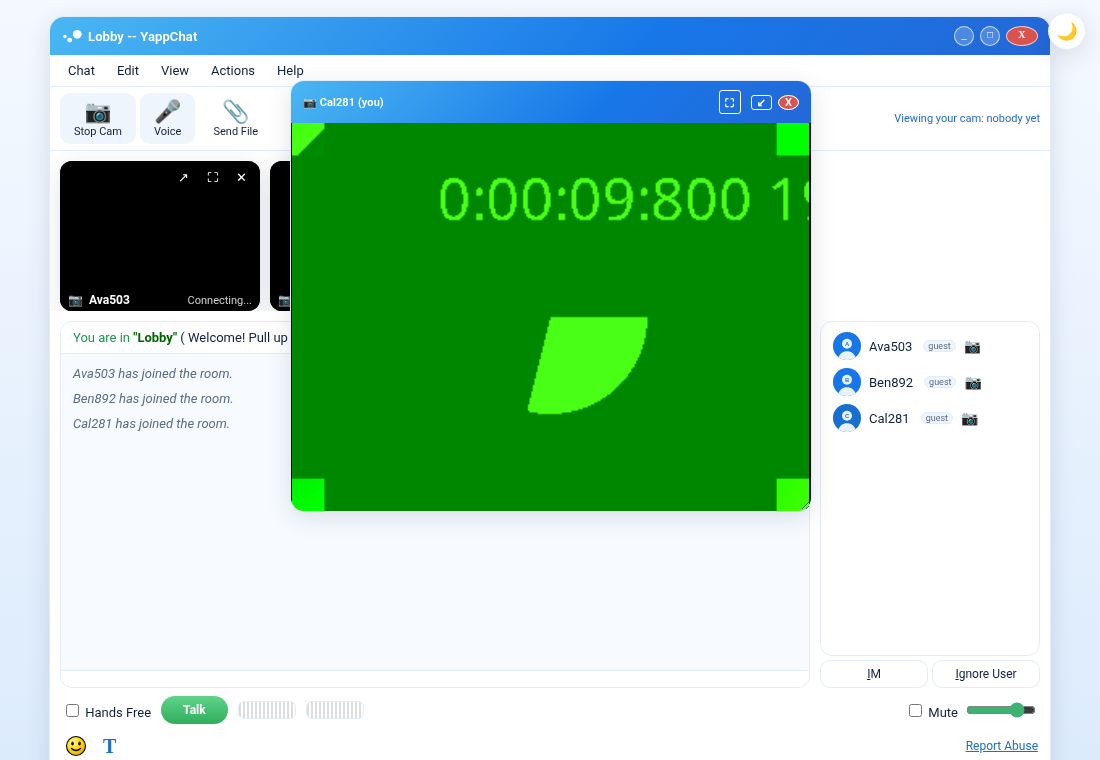
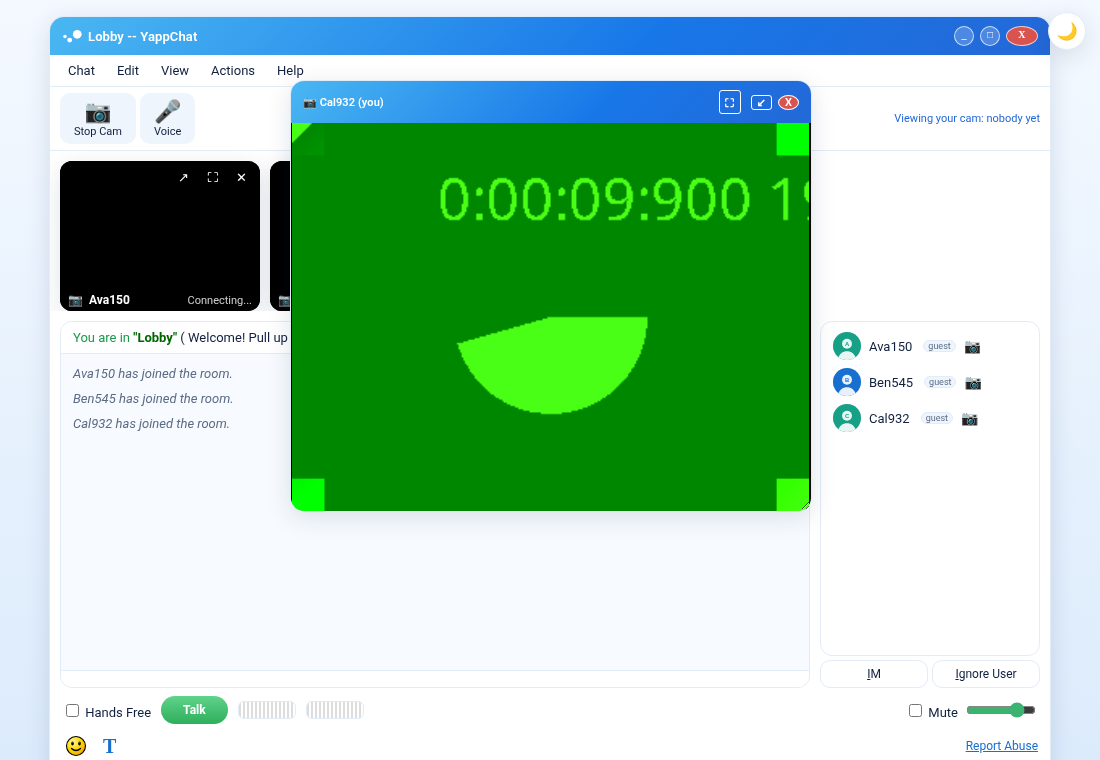
Remove Send File and Chat toolbar buttons

diff --git a/public/rooms.html b/public/rooms.html
@@ -112,7 +112,7 @@ html.dark .room{color:#8fc8ff!important}
  <div>Help<div class="dd"><div id="mHelp">How to Use Voice &amp; Webcam</div><div id="mAbout">About YappChat</div></div></div>
 </div>
 <div id="tools"><button class="tbtn" id="cam" title="Share My Webcam"><span>&#128247;</span>Webcam</button><button class="tbtn" id="vbtn" title="Show/hide voice controls"><span>&#127908;</span>Voice</button>
-<button class="tbtn" disabled title="Send File - coming soon"><span>&#128206;</span>Send File</button><button class="tbtn" id="cbtn" title="Rooms"><span>&#128172;</span>Chat</button><div id="viewers"></div></div>
+<div id="viewers"></div></div>
 <div id="camstrip"></div>
 <div id="main"><div id="lpane"><div id="topic"></div><div id="log"></div><div id="typing"></div></div>
 <div id="mpane"><div id="mem"></div><div id="mbtns"><button id="bIm" title="Send a private message"><u>I</u>M</button><button id="bIgn"><u>I</u>gnore User</button></div></div></div>
@@ -183,7 +183,6 @@ $('mKick').onclick=()=>{if(!owner||!acct||owner.toLowerCase()!=acct.toLowerCase(
 S.on('topic',t=>{$('topic').querySelector('i').textContent='( '+t+' )'});
 S.on('kicked',({room:r,by})=>{alert('You were kicked from '+r+' by '+by+'.')});
 $('mLeave').onclick=leave;$('wx').onclick=leave;$('mJoin').onclick=()=>{const r=prompt('Join which room?\n'+rooms.map(r=>r.name).join(', '),'');const f=r&&rooms.find(x=>x.name.toLowerCase()==r.trim().toLowerCase());if(f)joinR(f.name);else if(r)alert('No room named '+r)};
-$('cbtn').onclick=e=>{e.stopPropagation();document.querySelector('#menu>div').classList.add('open')};
 $('mCopy').onclick=()=>navigator.clipboard?.writeText(String(getSelection()));$('mSelAll').onclick=()=>{const r=document.createRange();r.selectNodeContents($('log'));getSelection().removeAllRanges();getSelection().addRange(r)};
 $('mClearIn').onclick=()=>$('msg').value='';$('mClear').onclick=()=>$('log').innerHTML='';
 function applyPrefs(){$('log').className=(prefs.ts?'':'nots ')+(prefs.jl?'':'nojl ')+'fs-'+prefs.fs;$('mTs').classList.toggle('chk',prefs.ts);$('mJl').classList.toggle('chk',prefs.jl);$('mTyp').classList.toggle('chk',prefs.typ);

diff --git a/server.js b/server.js
@@ -8,7 +8,7 @@ io.use(async (s, next) => { s.data.acct = await acc.userFromCookie(s.handshake.h
 const ROOMS = { 'Lobby':'General','Friends':'General','Chit Chat':'General','Late Night':'General' };
 const TOPICS = { 'Lobby':'Welcome! Pull up a chair and say hi','Friends':'Make new friends and catch up with old ones','Chit Chat':'Talk about anything and everything','Late Night':'For the night owls - who else is still up?' };
 const MAXLEN = 300, HIST = 50, COLORS = ['#000000','#ff0000','#0000ff','#008000','#800080','#ff6600','#008080','#990033'];
-const users = new Map(); const VERSION = 'v8-admin-cams'; // lower(name) -> socket.id
+const users = new Map(); const VERSION = 'v8.1-admin-cams'; // lower(name) -> socket.id
 const history = Object.fromEntries(Object.keys(ROOMS).map(r => [r, []]));
 // ---- user-created rooms (public, in memory; removed after ~10 min empty) ----
 const UROOMS = new Map(); // name -> { owner, ownerLc, emptySince }
